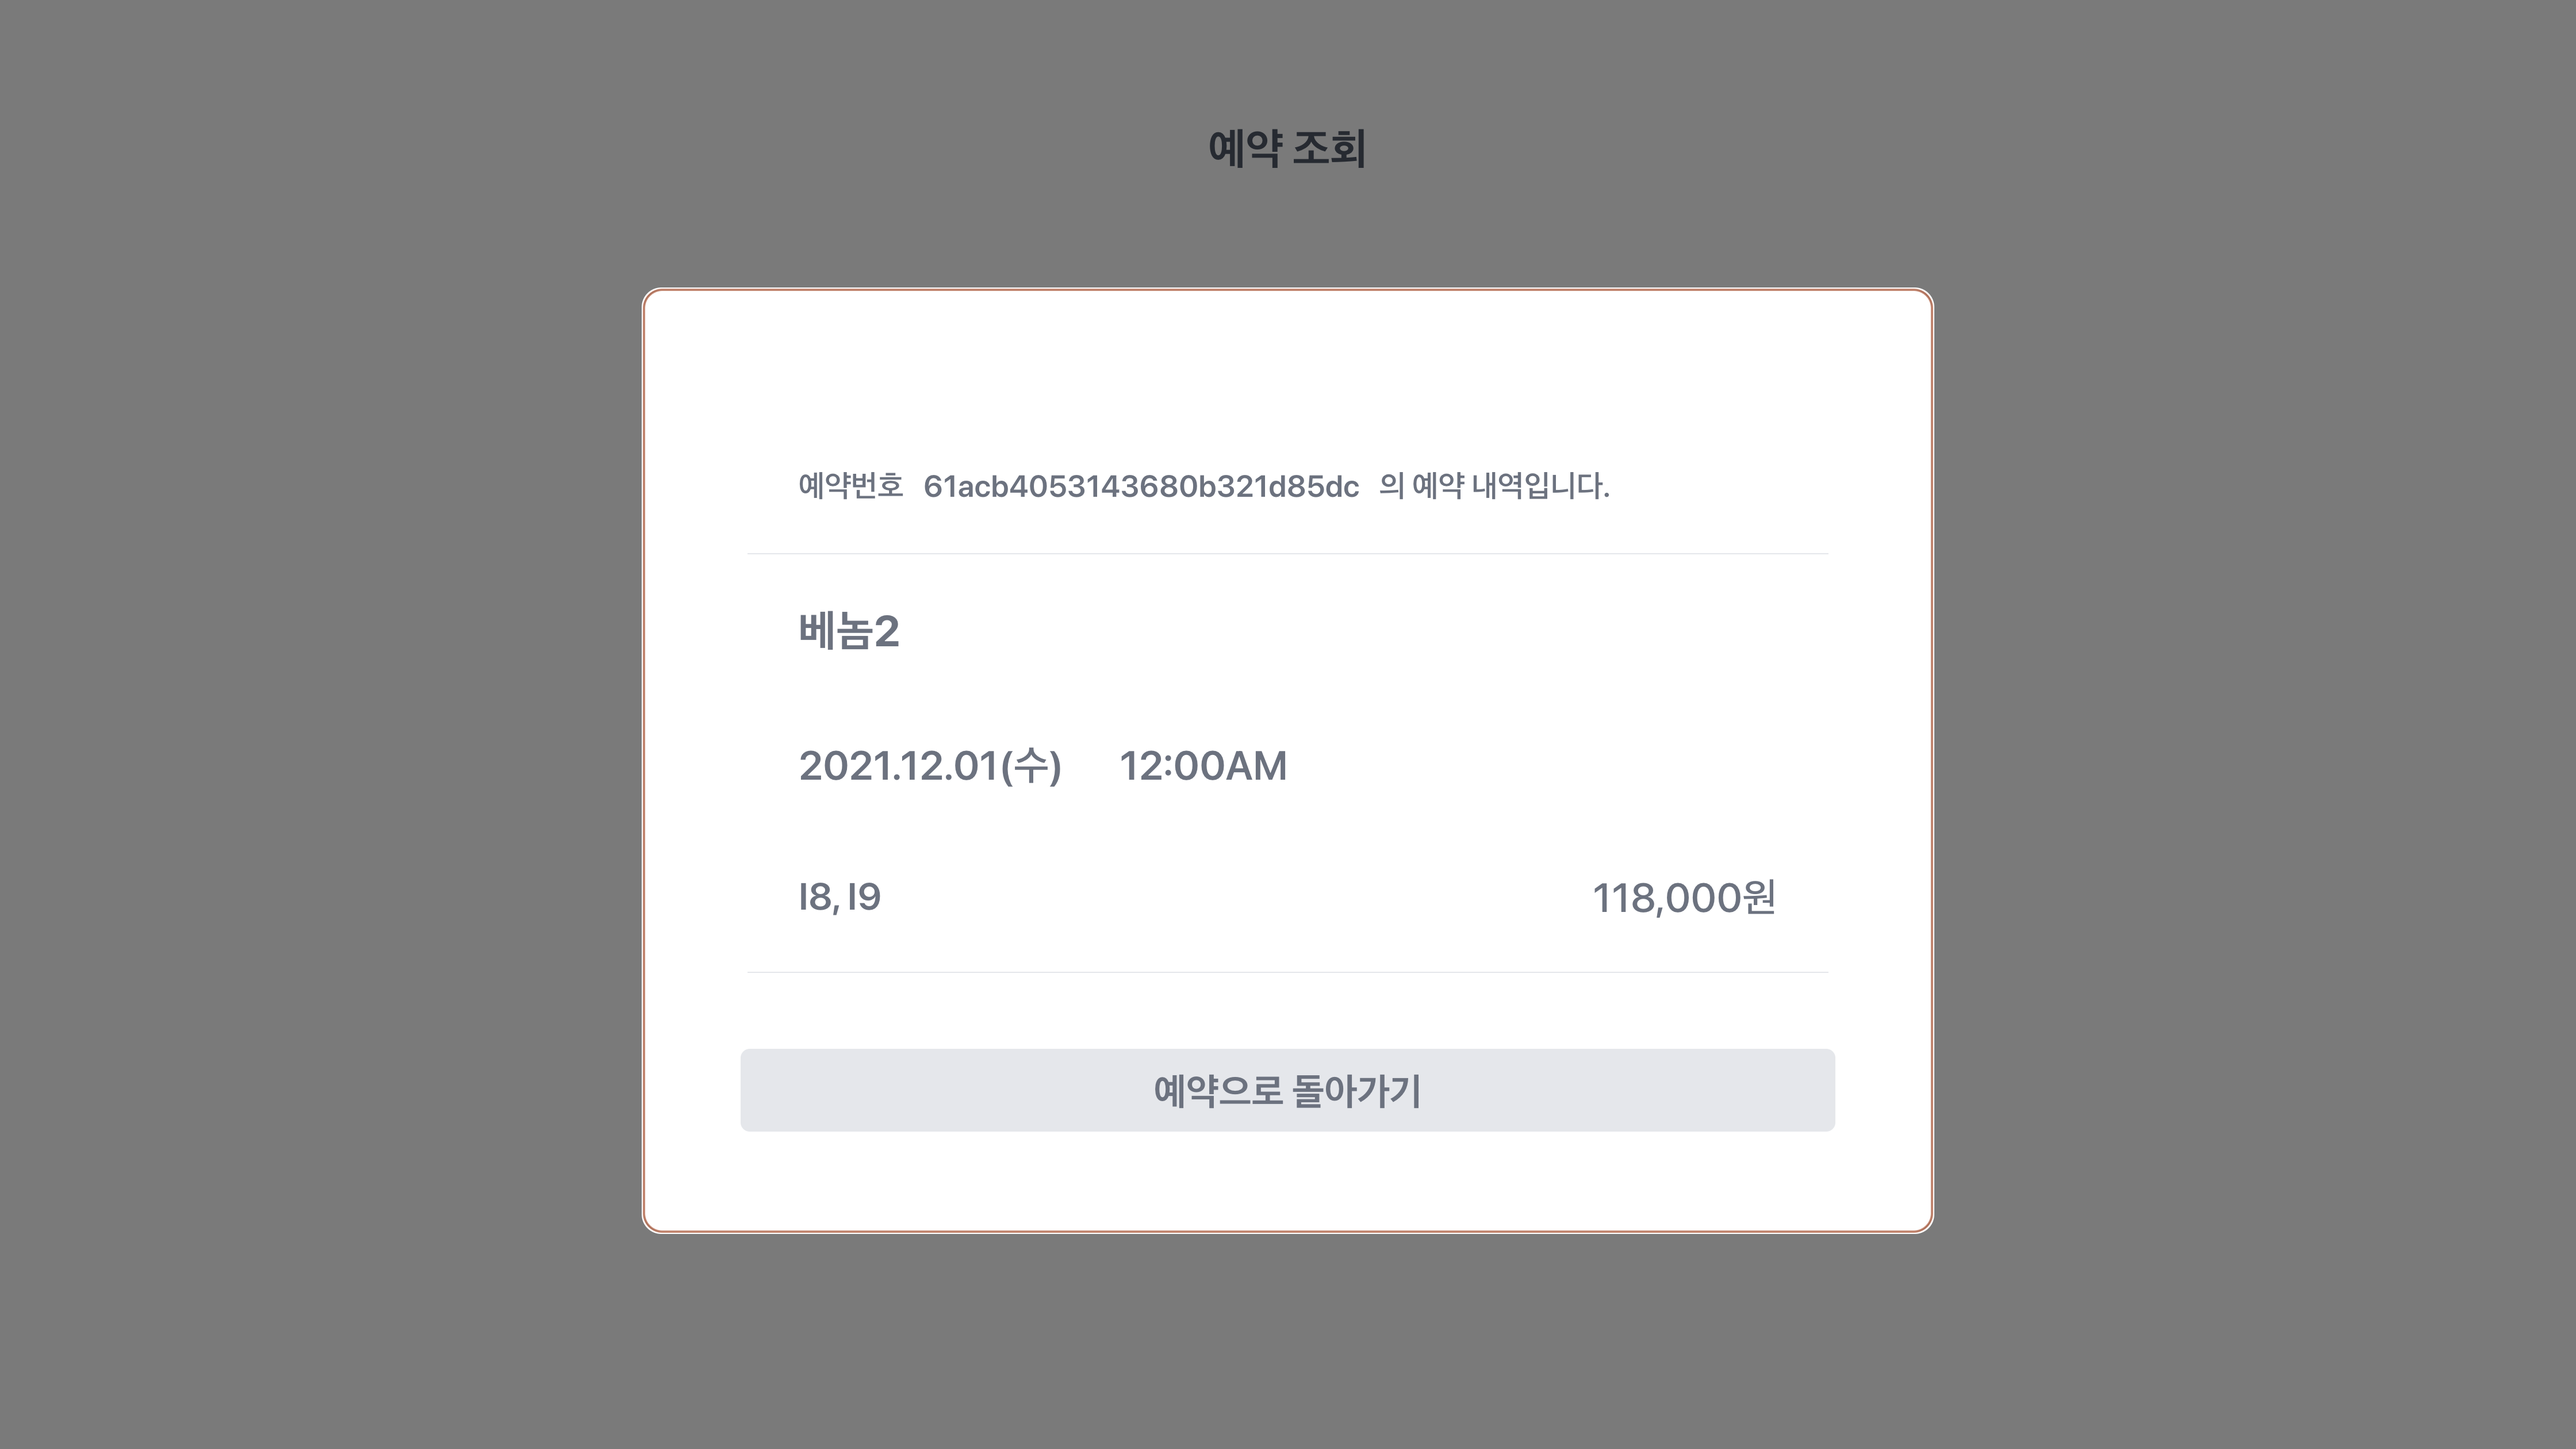
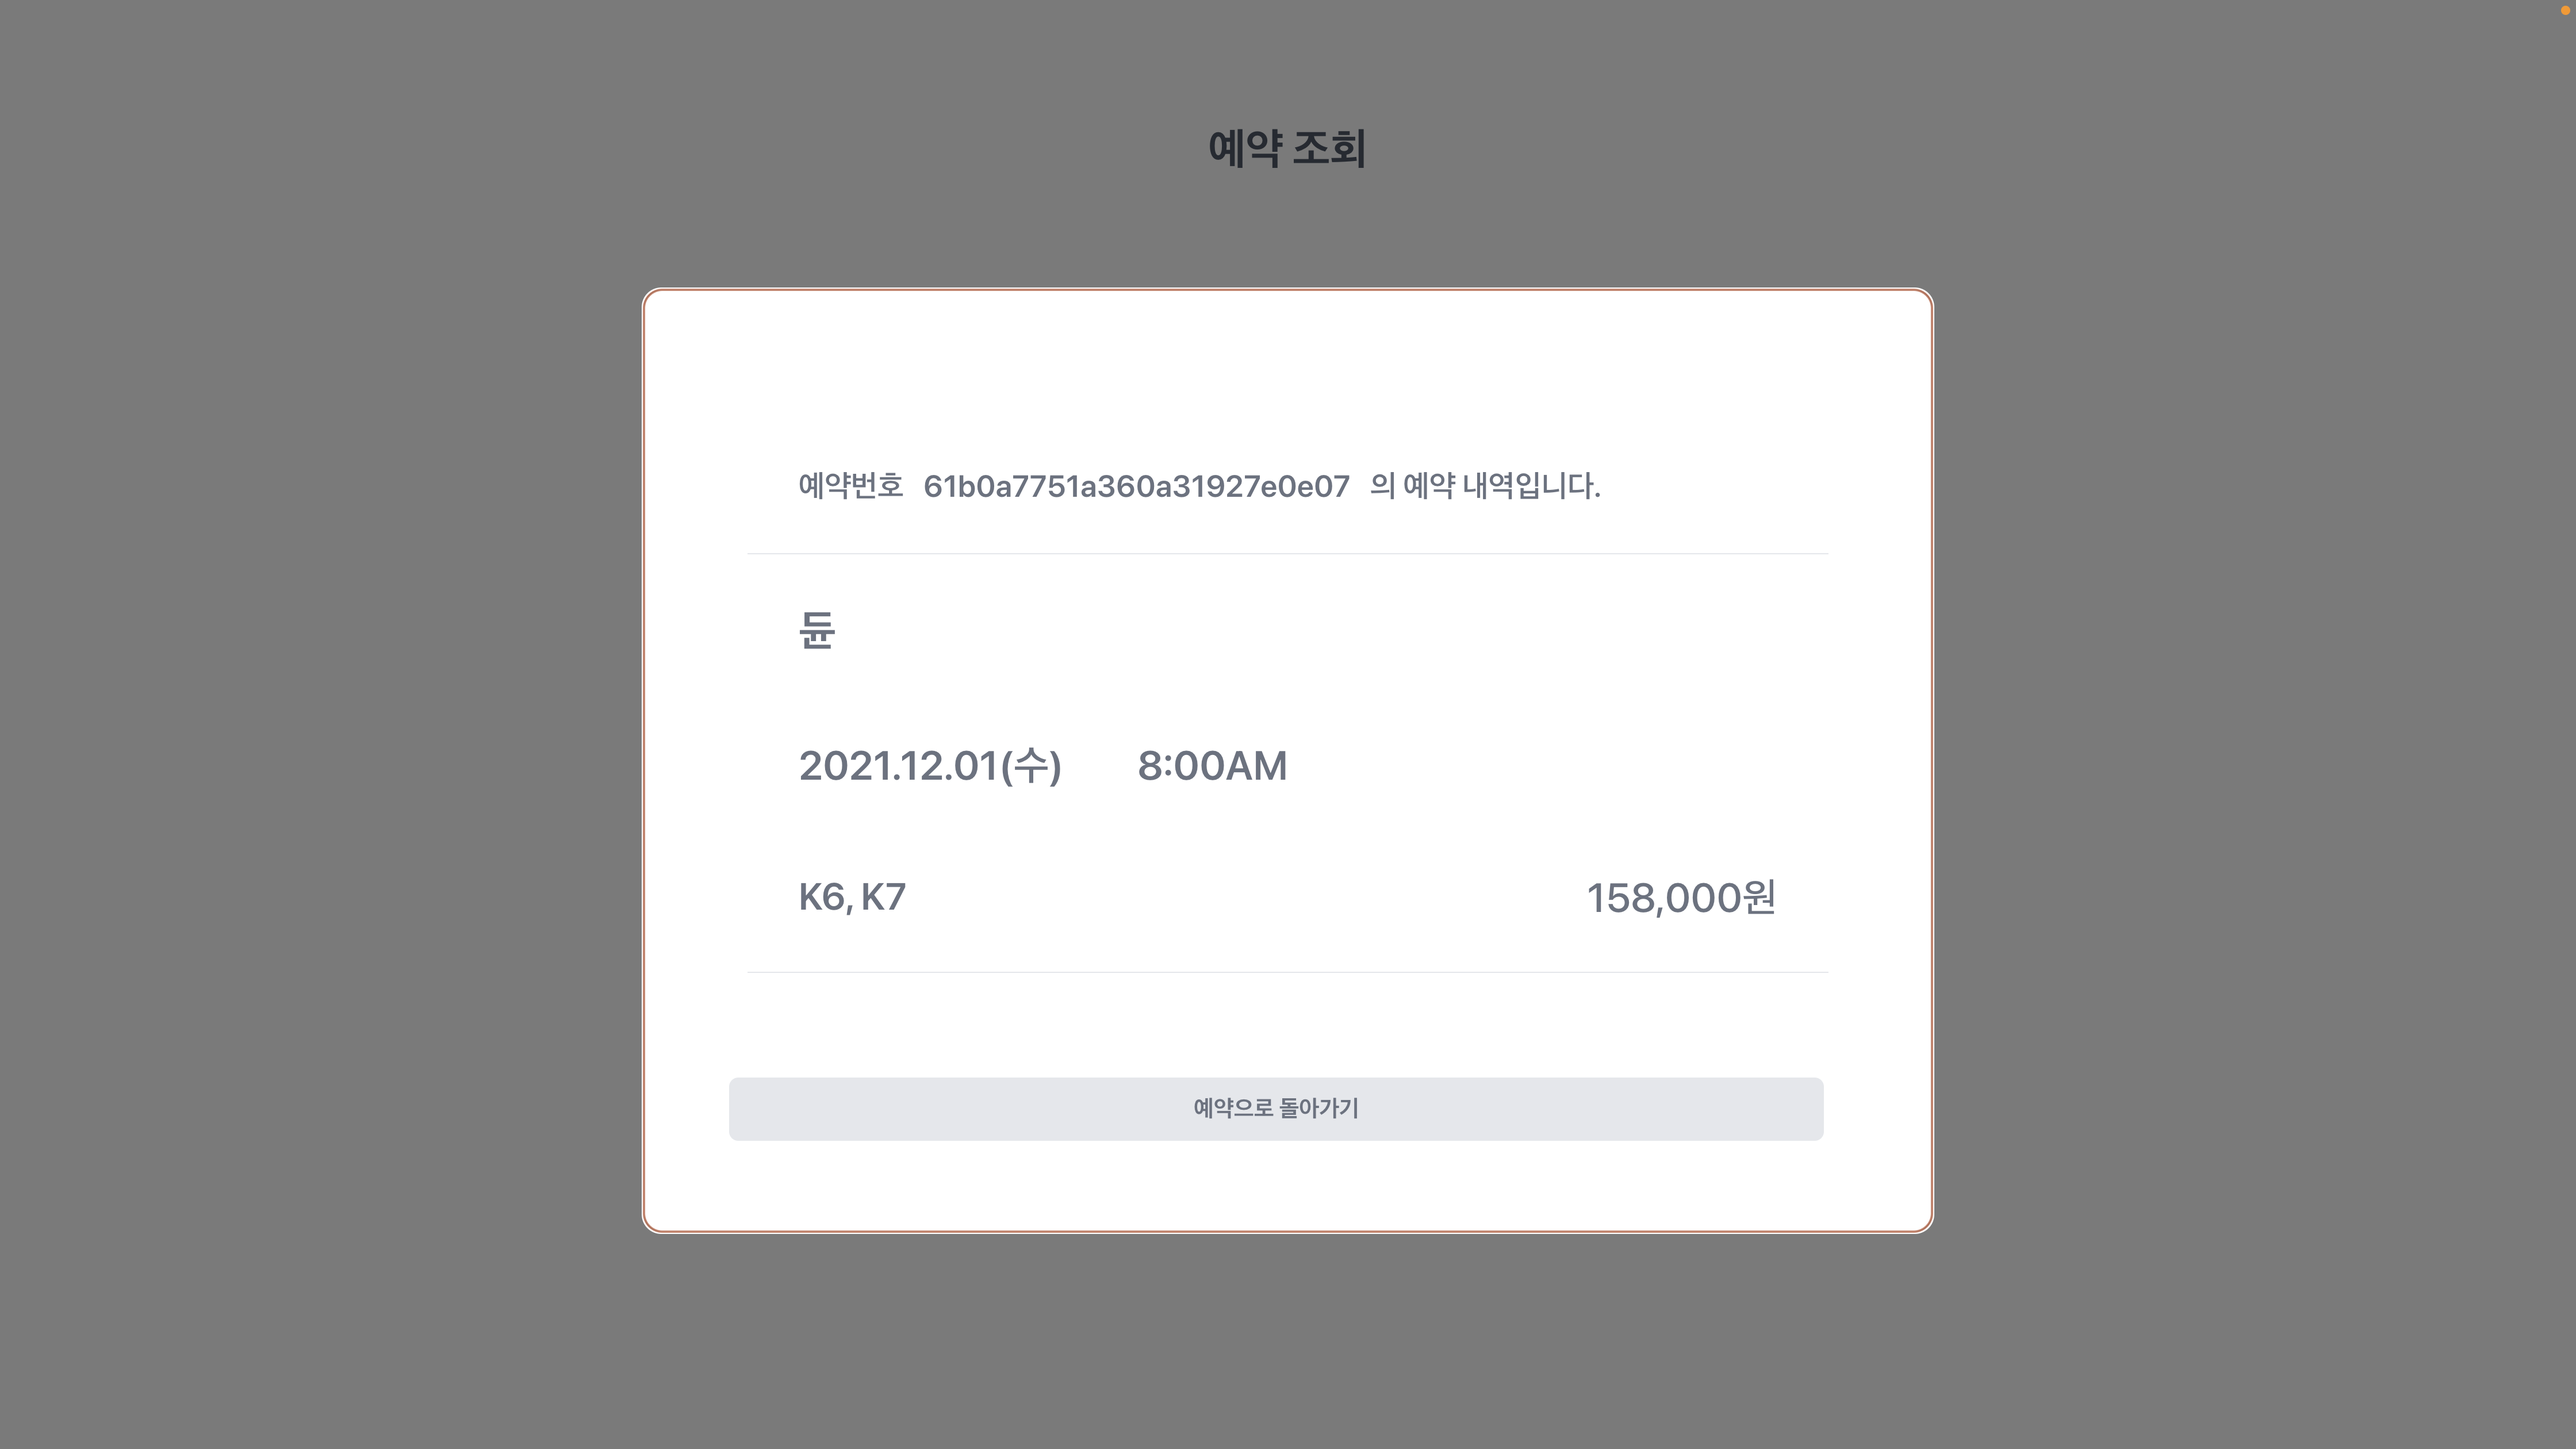
time format change when finish reservation

diff --git a/src/features/PersonalInfo.js b/src/features/PersonalInfo.js
@@ -90,7 +90,7 @@ export default function PersonalInfo(props) {
             <Ticket
               title={context.title}
               date={context.date}
-              time={context.time.substring(0, 2) + context.time.substring(3, 5)}
+              time={context.time}
               seats={context.seats}
               price={context.price}
             />

diff --git a/src/features/dateTimeSeatTable/components/DateTable.js b/src/features/dateTimeSeatTable/components/DateTable.js
@@ -76,6 +76,7 @@ const DateRow = ({ date, selectedDate, setSelectedDate, context }) => {
   );
   function dateClick(e) {
     setSelectedDate(date);
+    console.log(date);
     context.setDate(date.substring(0, 8));
     context.setTime("");
   }

diff --git a/README.md b/README.md
@@ -57,7 +57,6 @@
       port 3000에서 좌석 선택 후 예약하기 버튼 누르면 port 3001에서 해당 좌석 선택 비활성화
       5분 경과 후 port 3000에서 예약이 완료되지 않으면 port 3001에서 해당 좌석 선택 활성화
 
-
 ## Client
 
 ### 클라이언트 기술 스택
@@ -133,14 +132,13 @@ src
       📓 CustomButton.js : 버튼 컴포넌트. width, name, disabled, onclick 를 props로 받는다. "예약조회" 를 제외한 모든 버튼에 이용됨.
 
       📓 Ticket.js : 예약 내역을 일정한 형태로 보여주는 컴포넌트. title, date, time, seats, price 을 props로 받는다. 예약 확인 및 개인정보 입력 화면, 예약 조회 화면에서 이용됨.
-      
 
-  📓 api.js : server/routes에서 정의된 API들 및 네이버 OPEN API 호출 함수들을 정리함
 
-  📓 context.js: 전역 상태 관리에 이용됨. 
+📓 api.js : server/routes에서 정의된 API들 및 네이버 OPEN API 호출 함수들을 정리함
 
-  📓 apolloSetup.js: Apollo Client endpoint 설정, subscription을 호출했을 때만 WebSocket Link로 endpoint 설정 
+📓 context.js: 전역 상태 관리에 이용됨.
 
+📓 apolloSetup.js: Apollo Client endpoint 설정, subscription을 호출했을 때만 WebSocket Link로 endpoint 설정
 
 #### MovieTable.js
 
@@ -153,6 +151,7 @@ src
 #### PersonalInfo.js
 
 ![personalInfo](./readme_image/personalInfo.png)
+![personalInfo2](./readme_image/personalInfo2.png)
 
 #### FindReservation.js
 
@@ -231,41 +230,41 @@ $ node server
 ├── server.js
 └── createData.js
 ```
+
 📁 graphql : graphql 스키마 정의
-      📓 typeDefs.js : Reservation, Mutation, Subscription 타입 정의
-      
+📓 typeDefs.js : Reservation, Mutation, Subscription 타입 정의
+
       📓 resolver.js : 예약 생성 및 삭제, subscription 함수 정의
 
 📁 models : 오브젝트 스키마 및 필요한 함수 생성
 
       📓 hall.js : 특정 공연, 날짜, 시간에 해당하는 공연장의 정보를 나타내는 스키마
-   
+
       📓 reservation.js : 예약 내역 정보를 나타내는 스키마
-    
+
 📁 routes : router 이용하여 서버 API상의 데이터 송/수신
 
       📓 halls.js : 공연장 정보 조회를 위한 API
-      
+
             GET /halls : 전체 공연 list 조회
             GET /halls/hall?title=:title&date=:date&time:time : 특정 공연 조회 (title, date, time query로 입력)
             GET /halls/available?title=:title&date=:date : 해당 제목, 날짜의 모든 공연의 (시간, 잔여좌석) 정보 조회 (title, date query로 입력)
             POST /halls : 새로운 공연 정보 DB에 등록 (title, date, time, available body로 입력)
-            DELETE /halls/hall?title=:title&date=:date&time:time : 특정 공연 DB에서 삭제 (title, date, time query로 입력)            
+            DELETE /halls/hall?title=:title&date=:date&time:time : 특정 공연 DB에서 삭제 (title, date, time query로 입력)
             POST /preoccupy : 공연장 및 좌석을 body로 받아 선점, 선점 후 개인정보 미등록시 5분뒤 삭제
             PUT /clear : body로 공연장 정보 받아 해당 공연장의 예약/선점정보 모두 삭제
-   
+
       📓 reservation.js : 예약 내역 생성, 조회를 위한 API
-      
+
             GET /reservations : 전체 예약 내역 조회
             GET /reservations/search?birth=:birth&phone=:phone&password=:password : 개인정보 및 비밀번호로 예약내역 조회 (query로 개인정보 및 비밀번호 입력)
             GET /reservations/:reservationId : 예약번호로 예약내역 조회 (예약번호 param으로 입력)
             POST /reservations : 새로운 예약 생성 및 생성된 예약 내역 반환 (개인정보 및 비밀번호 body로 전송)
             DELETE /reservations/:reservationId : 예약번호로 예약내역 삭제
-   
+
 📓 server.js : 서버 주소 설정, DB연결, Apollo 서버 설정, Subscription 서버 설정 등을 담당하는 서버 실행을 위한 가장 기본 Javascript 파일
 
 📓 createData.js : DB에 초기 공연장 정보 저장을 위한 Javascript 파일, 서버 실행과는 별개로 작동
-
 
 ## Browser Support
 
